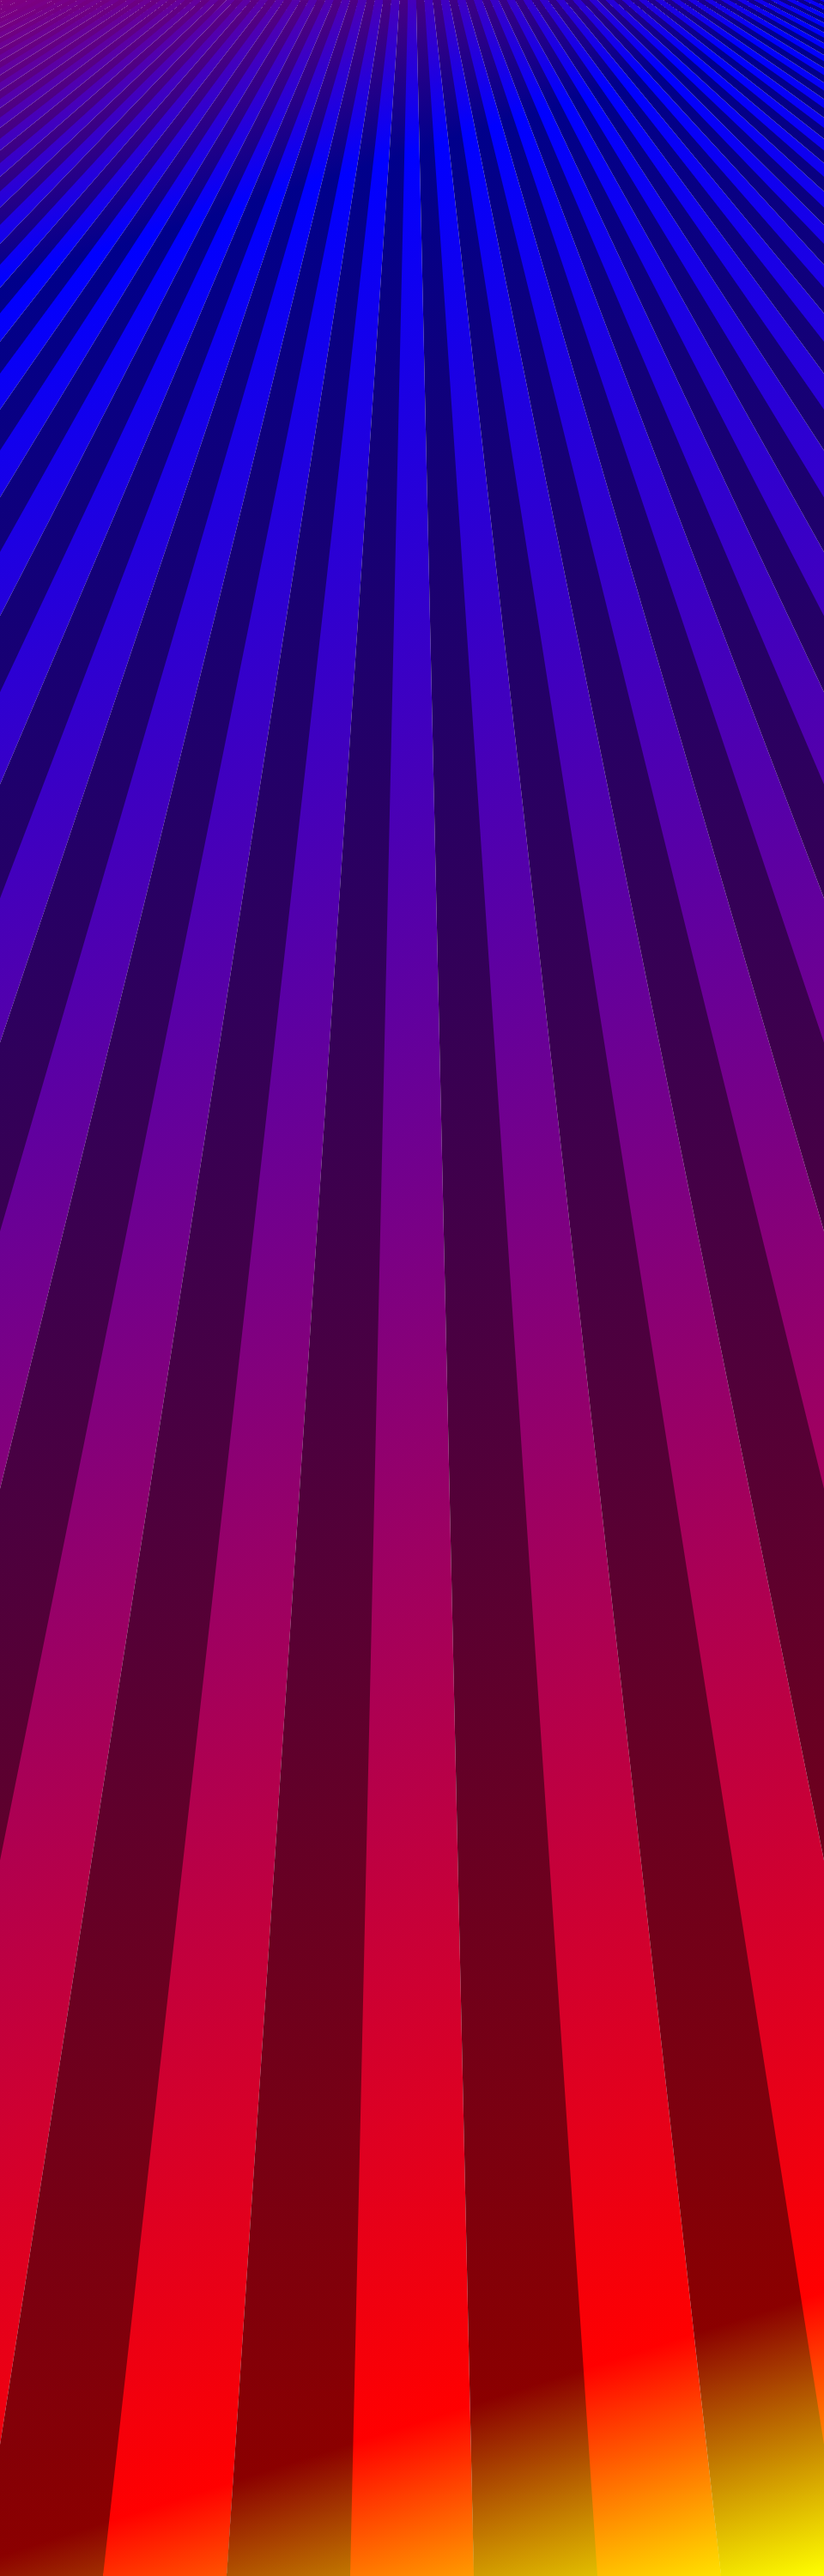
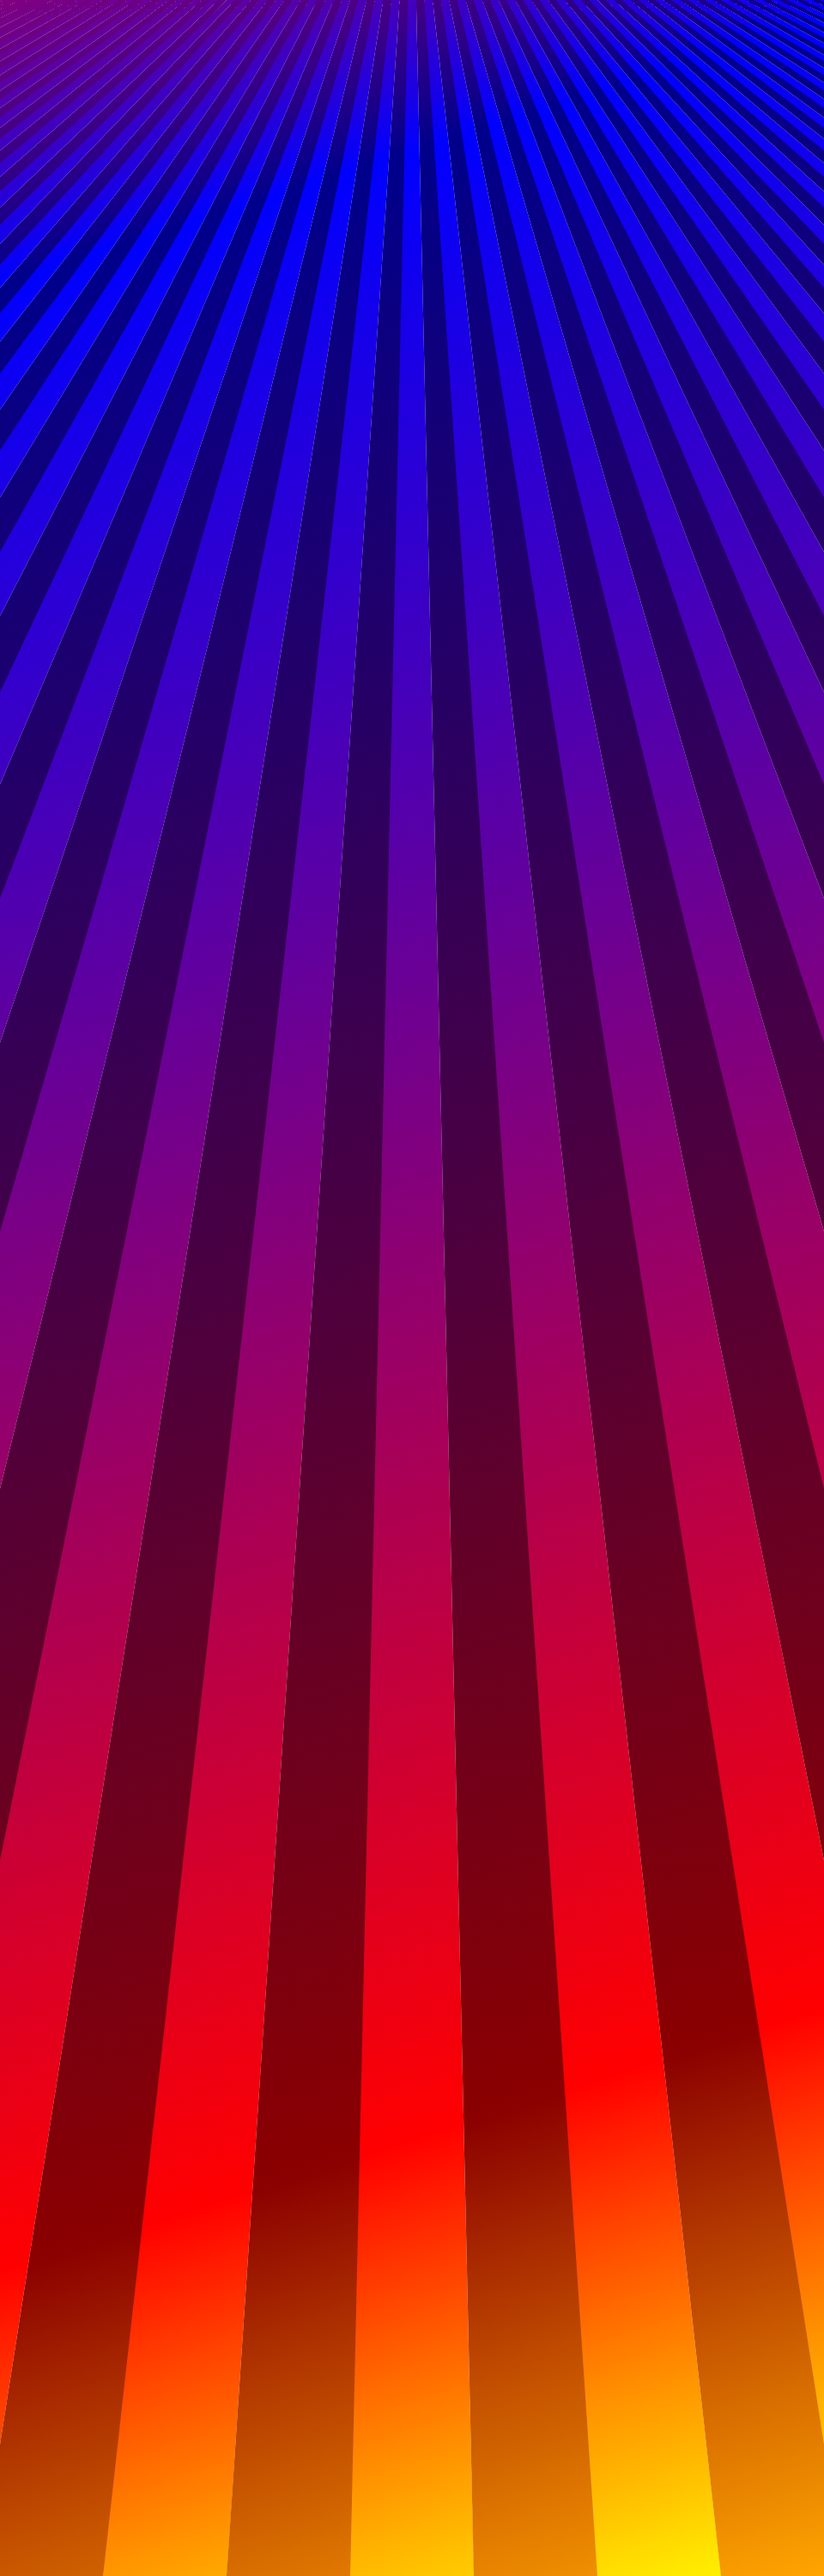
Add a bit more fire.

Changed region(s): [[0.0, 0.589, 1.0, 1.0]]

diff --git a/waves.html b/waves.html
@@ -12,29 +12,24 @@
     </style>       
     <script src="https://d3js.org/d3.v6.min.js"></script>
     <script type="text/javascript">
-        // var keyEnum = { W_Key:0, A_Key:1, S_Key:2, D_Key:3 };
-        // var keyArray = new Array(4);
+        var keyEnum = { G_Key:0};
+        var keyArray = new Array(1);
 
-        // function onKeyDown()
-        // {
-        //     // Detect which key was pressed
-        //     if( key == 'w' )
-        //         keyArray[keyEnum.W_Key] = true;
-        //     // Repeat for each key you care about...
-        // }
+        function onKeyDown(evt) {
+            if( evt.key == 'g' ) {
+                keyArray[keyEnum.G_Key] = true;
+            }
+        }
 
-        // function onKeyUp()
-        // {
-        //     // Detect which key was released
-        //     if( key == 'w' )
-        //         keyArray[keyEnum.W_Key] = false;
-        //     // Repeat for each key you care about...
-        // }
+        function onKeyUp(evt) {
+            if( evt.key == 'g' ) {
+                keyArray[keyEnum.G_Key] = false;
+            }
+        }
 
-        // function isKeyDown(key)
-        // {
-        //     return keyArray[key];
-        // }
+        function isKeyDown(key) {
+            return keyArray[key];
+        }
 
         function generate_lines() {
             const vw = Math.max(document.documentElement.clientWidth || 0, window.innerWidth || 0)
@@ -87,15 +82,15 @@
             gradient1.addColorStop(0, 'purple');
             gradient1.addColorStop(.10, 'blue');
             //gradient.addColorStop(.5, 'yellow');
-            gradient1.addColorStop(.90, 'red');
+            gradient1.addColorStop(.80, 'red');
             gradient1.addColorStop(1, 'yellow');
 
             var gradient2 = ctx.createLinearGradient(0, 0, width,height);
 
             gradient2.addColorStop(0, 'purple');
             gradient2.addColorStop(.10, 'darkblue');
-            gradient2.addColorStop(.90, 'darkred');
-            gradient2.addColorStop(1, 'yellow');
+            gradient2.addColorStop(.80, 'darkred');
+            gradient2.addColorStop(1, 'orange');
 
 
             for (var i = 0; i < line0_coords.length; i++){
@@ -122,8 +117,8 @@
         }        
 
         const rad = 2.0 * Math.PI;
-        const y1_phase_add =rad / 140.0;
-        const y1_sin_add=rad / 2600.0
+        const y1_phase_add =rad / 340.0;
+        const y1_sin_add=rad / 4600.0
         let y1_sin = 0;
         const y2_phase_add =rad / 1280.0;
         const y2_sin_add=rad / 1500.0
@@ -160,9 +155,18 @@
             //y2_sin += y2_phase_add;
         }        
 
+        function screen_handler() {
+            if (isKeyDown(keyEnum.G_Key)) {
+                generate_lines();
+            } else {
+                update();
+            }
+        }
+
         function create() {
-            setInterval(update, 60)
-            //setInterval(generate_lines, 60)
+            document.addEventListener('keyup', onKeyUp);
+            document.addEventListener('keydown', onKeyDown);
+            setInterval(screen_handler, 60)
         }
 
     </script>
